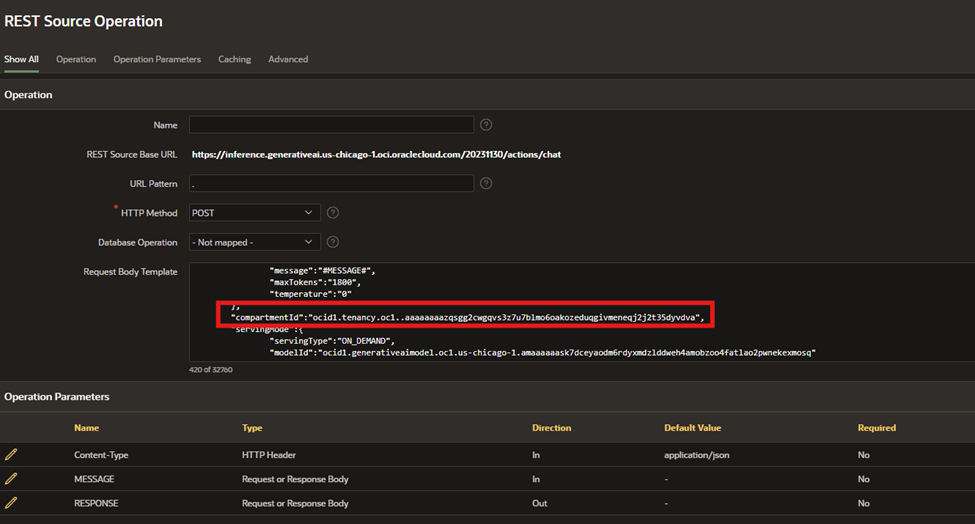
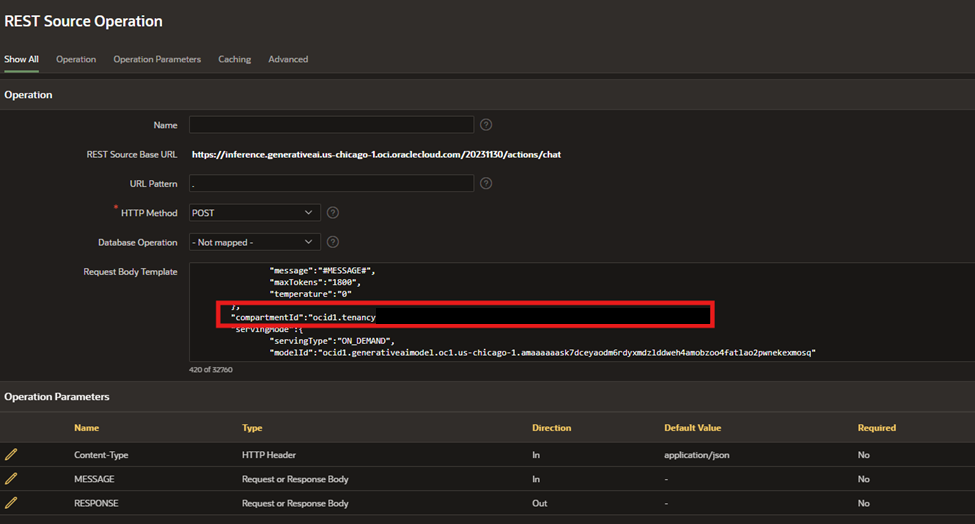
Ajustes Config + APEX

Changed region(s): [[0.3692, 0.5802, 0.7385, 0.6412]]

diff --git a/2-23ai-database/2-23ai-database.md b/2-23ai-database/2-23ai-database.md
@@ -1,5 +1,25 @@
 # Oracle 23ai Vector Search
 
+## 🎯 **Objetivos**
+
+Demonstrar de forma prática como utilizar a funcionalidade de busca vetorial do Oracle 23c AI Vector Search.
+
+O que você aprenderá:
+
+- Criar e configurar um banco de dados autônomo (Autonomous Database) no Oracle Cloud Infrastructure (OCI).
+- Utilizar a funcionalidade de busca vetorial para otimizar consultas e análises em PDFs.
+- Explorar as vantagens do Oracle 23c AI na integração de dados relacionais e semânticos.
+
+>### ⚠ **ATENÇÃO**:
+>
+>Antes de continuar, realize o download dos arquivos abaixo.
+><br>
+><br>
+>- **Download dos PDFs**: Qualquer PDF pode ser utilizado, mas, para fins didáticos deste workshop utilizaremos como nosso exemplo o guia de [Normas Ambientais da Marinha](https://www.marinha.mil.br/sites/default/files/atos-normativos/dpc/normam/normam-401.pdf)
+>- **Download da Aplicação**: [Aplicação APEX](https://objectstorage.us-ashburn-1.oraclecloud.com/p/giVj_Pu_1DNcojoKoLWZnEbL2oqQANGFCEGCuIE8Mm1hRaXCMhUkkKdu4xqi9CjB/n/idi1o0a010nx/b/bucket-prodesp/o/f102.sql)
+
+### _**Aproveite sua experiência na Oracle Cloud!**_
+
 ## 📌 Introdução
 
 >**Com o Oracle 23c AI, o AI Vector Search integra vetores ao Oracle Database, eliminando bancos especializados e evitando a fragmentação de dados. Essa tecnologia permite buscas por similaridade combinadas com SQL simples, potencializando modelos de linguagem (LLMs) com contexto adicional. Inclui novo tipo de dado vetorial, índices específicos e extensões SQL para análises avançadas diretamente no banco de dados.** 
@@ -27,22 +47,8 @@ Referência: [Announcing Oracle Database 23ai : General Availability
 
 <br>
 
-### 📌 **Objetivos**
-
-Demonstrar de forma prática como utilizar a funcionalidade de busca vetorial do Oracle 23c AI Vector Search.
-
-O que você aprenderá:
-
-- Criar e configurar um banco de dados autônomo (Autonomous Database) no Oracle Cloud Infrastructure (OCI).
-- Utilizar a funcionalidade de busca vetorial para otimizar consultas e análises.
-- Explorar as vantagens do Oracle 23c AI na integração de dados relacionais e semânticos.
-
-<br>
 ### **Recursos e Suporte**:
 
-- **Download dos PDFs**: Neste laboratório utilizaremos um documento:
-     - [Normas Internas Dataprev](https://www.dataprev.gov.br/governanca/normativos/normasinternas): Para o nosso exemplo, utilizaremos o arquivo **Viagem a Serviço Nacional**.
-- **Download da Aplicação**: [f102.sql](https://objectstorage.us-ashburn-1.oraclecloud.com/p/XescapnJvbIn2SQTE9akiaJYethoa9t_4glIsMZa4mjI0VJrUdL2MvzqJmsJmF1C/n/idi1o0a010nx/b/bucket-prodesp/o/f102.sql)
 - **Documentação da Oracle Cloud**: [Getting started with vectors in 23ai](https://blogs.oracle.com/coretec/post/getting-started-with-vectors-in-23ai)
 - **Tutoriais**: [Oracle Database 23ai - Oracle AI Vector Search & Retrieval Augmented Generation (RAG) with Oracle APEX](https://www.linkedin.com/pulse/oracle-database-23ai-ai-vector-search-retrieval-augmented-rao-bqkcf/)
 
@@ -56,20 +62,20 @@ Faça o login no Oracle Cloud Infrastructure (OCI) e valide se a região de Chic
 
    ![Validate Region](images/validate-region.png " ")
 
-> **Caso a região de Chicago não esteja disponível, clique em manage region (caso já esteja disponível pule para a sessão 2 - Criação de Autonomous Database)** 
-![Manage Region](images/manage-region.png)
-
-Busque por **US Midwest (Chicago)** e clique no botão subscribe. O processo de subscrição pode levar alguns minutos, aguarde para dar sequência ao workshop. Clique no ícone escrito **Oracle Cloud** no canto esquerdo e faça logoff e login para validar se a região já foi subscrita.
-
-![Subscribe Region](images/subscribe-region.png)
 
 ## 2⃣ Criação de Autonomous Database
 
-Clique no menu de hambúrger do canto superior esquerdo da tela, na sequência navegue até a página de gestão de autonomous databases.
+Clique no menu **(☰)** e selecione **Database ⮕ Autonomous Data Warehouse**.
 
 ![Autonomous Acess](images/autonomous-acess.png)
 
-Na página de gestão de Autonomous Databases, clique em create autonomous database. Selecione **ATP ou ADW**
+Verifique se está no compartimento **root**. Faça a criação do serviço **somente** neste compartimento.
+
+> **ATENÇÃO**: Antes de continuar verifique se está no compartimento **ROOT** conforme indicado abaixo.
+
+![Compartment Root](images/compartment-root.png)
+
+Na página de gestão de Autonomous Databases, clique em **Create Autonomous Database**.
   
 ![Create Autonomous](images/create-autonomous.png)
 
@@ -77,26 +83,32 @@ Escolha a versão 23ai para o banco de dados:
 
 ![Create 23AI](images/create-23ai.png)
 
-Coloque a senha **WORKSHOPsec2019##** , escolha **secure access from everywhere** e clique em **Create Autonomous Database**:
-<br><br>
+Utilize a senha recomendada: **WORKSHOPsec2019##** . Selecione **secure access from everywhere** e clique em **Create Autonomous Database**:
+
+> **ATENÇÃO**: Verifique se utilizou a senha recomendada **WORKSHOPsec2019##**
 
 ![Secure Acess](images/secure-acess.png)
 
-Aguarde até a conclusão da criação: 
-- Ícone amarelo = criando; 
-- Ícone verde = pronto para uso;
+Vá para o próximo laboratório.
+
+> **Status do Autonomous Database:**
+> <br>
+> <br>
+> - Ícone amarelo = Em criação; 
+> - Ícone verde = Pronto para uso;
+
 ![Yellow ADW](images/yellow-adw.png)
 ![Green ADW](images/green-adw.png)
 
 ## 3⃣ Configurando o Autonomous Database
 
-Clique no ícone chamado database actions e SQL:
+Quando o serviço estiver com o ícone verde, clique no em **Database Actions ⮕ SQL**:
 ![Database Actions](images/database-actions.png)
 
-Caso seja requisitado, o usuário é **admin** e a senha é a **fornecida na criação do autonomous database da etapa anteiror.**
 Feche todos os tutoriais que aparecerão na página.
-Copie, cole e execute os comandos abaixo:
+<br>
 
+Em seguida, **copie, cole e execute os comandos abaixo conforme indicado na imagem**:
 
     <copy>  
         --Criação de credencial
@@ -154,7 +166,11 @@ Em seguida, clique na opção **Create Workspace**. Na tela seguinte, escolha a 
 
    ![Existing Schema](images/existing-schema.png)
 
-Na sequência, preencha o formulário como o exemplo abaixo (recomendamos a senha **WORKSHOPsec2019##**). E clique em **Create Workspace** para finalizar.
+Na sequência, clique no ícone **(☰)** na tela e selecione **DEMO**. 
+<br>
+Em seguida, preencha o formulário como o exemplo abaixo (recomendamos a senha **WORKSHOPsec2019##**). E clique em **Create Workspace** para finalizar.
+
+> **ATENÇÃO**: Verifique se utilizou a senha recomendada **WORKSHOPsec2019##**
 
    ![Create Workspace](images/create-workspace.png)
 
@@ -172,15 +188,23 @@ Encerre a sessão do usuário **ADMIN** clicando em **Sign Out**, localizado na 
 
 Faça o login no usuário **DEMO** criado nas etapas anteriores utilizando as credenciais de acesso indicadas abaixo.
 
+> **ATENÇÃO**: Verifique se utilizou a senha recomendada **WORKSHOPsec2019##**
+
    ![Login](images/login.png)
 
 Clique em **App Builder** e, em seguida, selecione **Import**.
 
    ![Import](images/import.png)
 
-Na página que será aberta, faça o upload do arquivo **f102.sql** utilizando o seguinte link: [f102.sql](https://objectstorage.us-ashburn-1.oraclecloud.com/p/XescapnJvbIn2SQTE9akiaJYethoa9t_4glIsMZa4mjI0VJrUdL2MvzqJmsJmF1C/n/idi1o0a010nx/b/bucket-prodesp/o/f102.sql).
+Na página que será aberta, faça o upload do arquivo **f102.sql**, cujo download está no seguinte link: [f102.sql](https://objectstorage.us-ashburn-1.oraclecloud.com/p/giVj_Pu_1DNcojoKoLWZnEbL2oqQANGFCEGCuIE8Mm1hRaXCMhUkkKdu4xqi9CjB/n/idi1o0a010nx/b/bucket-prodesp/o/f102.sql).
+
+> **ATENÇÃO:** Caso já tenha sido realizado o download no início do tutorial, não é necessário realizar novamente.
 
    ![Aplicação f102](images/f102.png)
+
+Clique em **Next:**
+
+   ![Import Next](images/import-next.png)
 
 Aceite as configurações padrão e clique em **Install Application** para prosseguir com a instalação.
 
@@ -211,27 +235,20 @@ Para preencher corretamente essa credencial, é necessário obter algumas inform
 
 Na tela **User Settings**, localize a guia **API Keys** no canto inferior esquerdo. Clique nela e siga as instruções do assistente (wizard) para criar um par de chaves de API. 
 
-> **ATENÇÃO: Certifique-se de salvar as seguintes informações em um local seguro, pois será necessária para configurar a credencial na próxima etapa:** <br></br>
-> - **OCI User ID**
-> - **OCI Private Key**
-> - **OCI Public Key Fingerprint**
-
+> **ATENÇÃO: Certifique-se de fazer o download das chaves em um local seguro, pois será necessária para configurar a credencial na próxima etapa. Após o dowload, certifique-se de clicar em ADD para criar a chave**
+> 
    ![API Keys](images/api-keys.png)
 
 O preenchimento do formulário no APEX exigirá informações específicas que podem ser obtidas na tela do OCI. Para facilitar, **utilize as seguintes correspondências de cores** entre os dois sistemas. Preencha as seguintes informações:
-- OCI User ID
-- OCI Private Key 
-- OCI Public Key Fingerprint
+- **OCI User ID** (Coletado no Configuration File Preview)
+- **OCI Public Key Fingerprint** (Coletado no Configuration File Preview)
+- **OCID Tenancy** (Coletado no Configuration File Preview)
+- **OCI Private Key** (Abra o arquivo **.pem** cujo download foi realizado em um bloco de notas e copie o conteúdo)
 
-   ![OCID API OCI](images/ocid-api-oci.png)
+Caso você tenha fechado a página com os dados, clique nos **três pontos** em **API Keys** ao lado direito do fingerprint e clique em **View Configuration File**
+
+   ![Config Tenancy](images/config-tenancy.png)
    ![OCID API APEX](images/ocid-api-apex.png)
-
-O OCI Tenancy ID pode ser coletado no OCI na página **Tenancy Details**, que pode ser acessada clicando no nome do seu Tenancy na página inicial do Console ou na seção Tenancy Information dentro de User Settings.
-
-   ![Tenancy Details](images/tenancy-details.png)
-   ![Tenancy OCID](images/tenancy-ocid.png)
-
-Retorne à página do APEX e insira o **OCI Tenancy ID** no campo correspondente, utilizando o valor coletado na página Tenancy Details do OCI.
 
 Por fim, clique em **Apply Changes** para salvar as configurações e concluir o ajuste da credencial.
 
@@ -243,7 +260,7 @@ Acesse o **App Builder** e clique na aplicação que você instalou recentemente
 
    ![APP Builder API](images/app-builder-api.png)
 
-Selecione em **Shared Components -> REST Data Resources**
+Selecione em **Shared Components ⮕ REST Data Resources**
 
    ![Shared Components](images/shared-components.png)
    ![Rest Data Resources](images/rest-data-resources.png)
@@ -263,14 +280,13 @@ Com a configuração da credencial concluída, podemos testar a aplicação. Par
 
    ![Run Application](images/run-application.png)
 
-Clique em **Arquivos e Normas**.
+Clique no ícone **(☰)** e selecione a aba **Arquivos e Normas**.
 
    ![Assistente AI](images/assistente-ai.png)
 
-Seguiremos com o upload de um arquivo PDF para dentro da aplicação. Qualquer PDF pode ser utilizado, mas, para fins didáticos deste workshop, recomendamos as normas disponíveis no link: [Normas Internas Dataprev](https://www.dataprev.gov.br/governanca/normativos/normasinternas). Para o nosso exemplo, utilizaremos o arquivo **Viagem a Serviço Nacional**.
+Seguiremos com o upload de um arquivo PDF para dentro da aplicação. Qualquer PDF pode ser utilizado, mas, para fins didáticos deste workshop utilizaremos como nosso exemplo o guia de [Normas Ambientais da Marinha](https://www.marinha.mil.br/sites/default/files/atos-normativos/dpc/normam/normam-401.pdf)
 
-   ![Dataprev Site](images/dataprev-site.png)
-
+<br>
 Clique em **Upload** e preencha o formulário seguindo o exemplo fornecido. O **JSON** utilizado para o preenchimento está disponível logo abaixo da imagem de referência.
 
    ![Uploader](images/uploader.png)
@@ -279,7 +295,7 @@ Clique em **Upload** e preencha o formulário seguindo o exemplo fornecido. O **
     <copy>  
     {
     "by" : "words",
-    "max" : "100",
+    "max" : "200",
     "overlap" : "0",
     "split": "sentence",
     "language" : "ptb",
@@ -292,7 +308,9 @@ Se o upload for concluído com sucesso, sua tela deverá se assemelhar ao exempl
 
    ![Row Created](images/row-created.png)
 
-Clique em Assistente AI e faça uma pergunta relacionada ao documento carregado. Por exemplo, você pode perguntar: **"COMO FAZER ALTERAÇÃO DE VIAGEM"**.
+Clique em Assistente AI e faça uma pergunta relacionada ao documento carregado. 
+<br>
+Por exemplo, você pode perguntar: **COMO TROCAR ÁGUA DE LASTRO?**
 
    ![Question](images/question.png)
 

diff --git a/0-pt-config-lab/0-pt-config-lab.md b/0-pt-config-lab/0-pt-config-lab.md
@@ -1,5 +1,13 @@
 # Configuração do Oracle Free Tier 
 
+## 🎯 **Objetivos**
+
+A seguir o passo a passo do laboratório de criação da conta Free Tier na Oracle Cloud.
+
+### **Recursos e Suporte**:
+- **Documentação da Oracle Cloud**: [Documentação da Oracle Cloud](https://docs.oracle.com/en/cloud/)
+- **Tutoriais**: Explore o [Centro de Aprendizado da Oracle](https://mylearn.oracle.com/ou/home)
+
 ## 📌 Introdução
 
 > Este documento de configuração foi elaborado para guiar você na **criação de uma conta Oracle Cloud Free Tier**, que é necessária para realizar qualquer laboratório técnico na Oracle Cloud Infrastructure (OCI).
